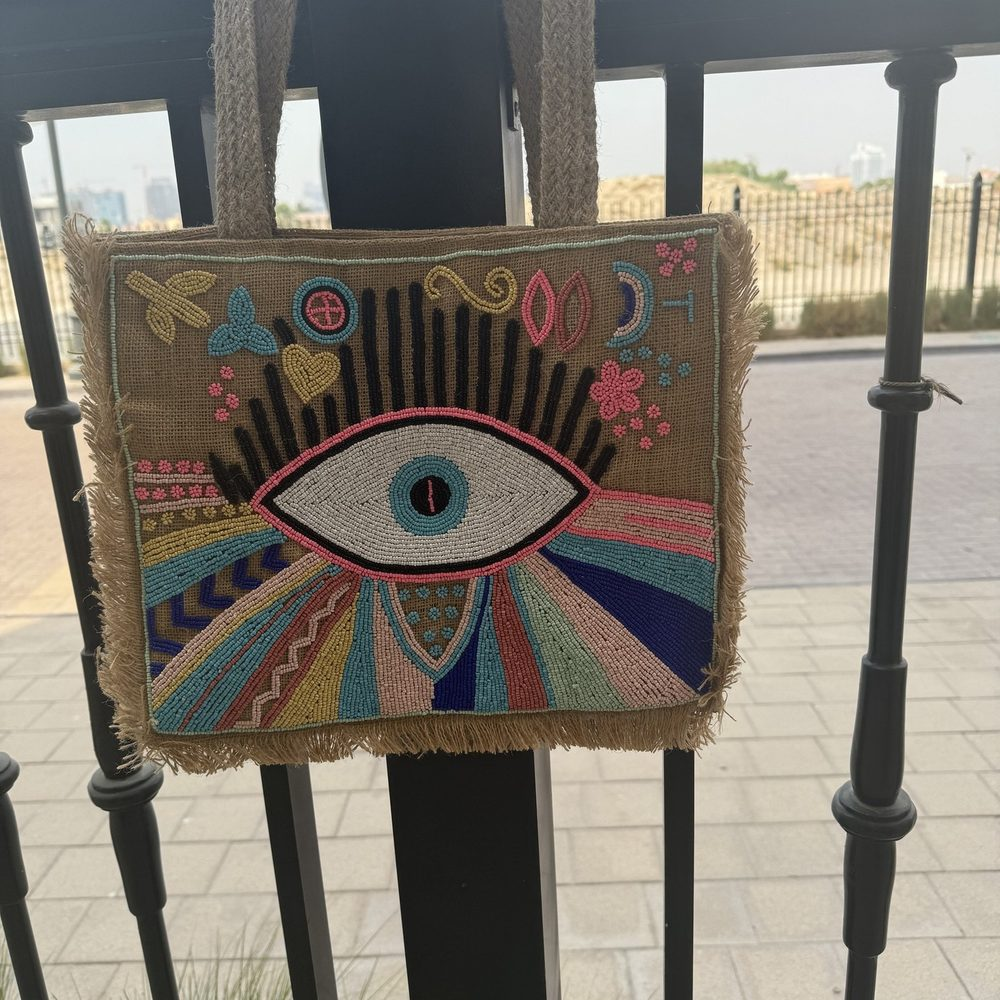
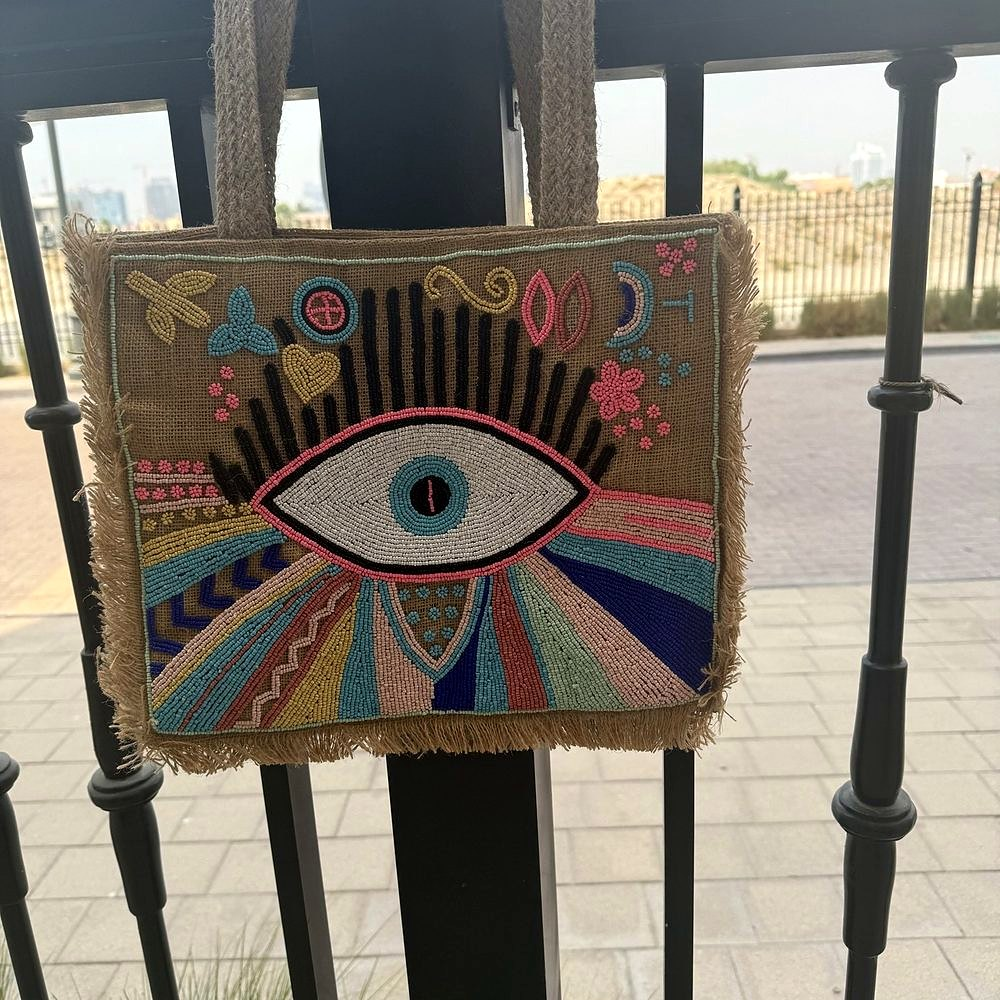
Cleaner product photos (studio cutouts, pro Santorini shots), enhance phone photos, add Desert Gold Tassel Clutch
Claude-Session: https://claude.ai/code/session_01JomihgrmtkzKSAm7hyXQ3Y

diff --git a/index.html b/index.html
@@ -347,8 +347,8 @@ dialog::backdrop{background:rgba(30,22,16,.6)}
     <div class="wrap">
       <div class="head"><div><p class="eyebrow">Shop by style</p><h2 id="cat-h">Find your kind of boho.</h2></div><p class="lead">From roomy beach totes to evening clutches covered in coins and mirrors.</p></div>
       <div class="cats">
-        <button class="cat" data-cat="tote"><img src="img/evil-eye-tote-main.jpg" alt="" loading="lazy"><span><b>Totes</b><em>Shop →</em></span></button>
-        <button class="cat" data-cat="clutch"><img src="img/black-cream-sequin-clutch-main.jpg" alt="" loading="lazy"><span><b>Clutches</b><em>Shop →</em></span></button>
+        <button class="cat" data-cat="tote"><img src="img/santorini-studio-2.jpg" alt="" loading="lazy"><span><b>Totes</b><em>Shop →</em></span></button>
+        <button class="cat" data-cat="clutch"><img src="img/gold-tassel-clutch-1.jpg" alt="" loading="lazy"><span><b>Clutches</b><em>Shop →</em></span></button>
         <button class="cat" data-cat="sling"><img src="img/cream-fringe-sling-main.jpg" alt="" loading="lazy"><span><b>Shoulder bags</b><em>Shop →</em></span></button>
       </div>
     </div>
@@ -519,22 +519,22 @@ const PRODUCTS=[
   desc:"A big, joyful tote with a hand-beaded evil eye in rainbow colours. Frayed jute edges give it a relaxed beach look.",
   points:["Hand-beaded on natural jute","Roomy open tote with sturdy jute handles","Fits phone, wallet, sunglasses and a towel","Great with kaftans, abayas and summer dresses"]},
  {id:"santorini-tote",type:"tote",typeName:"Beaded Tote",badge:"",name:"Santorini Beaded Tote",price:119,
-  imgs:["santorini-tote-2","santorini-tote-3","santorini-tote-4"],
+  imgs:["santorini-studio-1","santorini-studio-2","santorini-studio-3","santorini-studio-4","santorini-tote-2","santorini-tote-3"],
   blurb:"Blue domes and white houses in fine seed beads.",
   desc:"A Greek-island scene worked in fine seed beads, with woven blue-and-white side panels and striped handles.",
   points:["Seed-bead Santorini scene","Woven blue and white side panels","Striped navy and white handles","Made for the beach, pool and travel"]},
  {id:"cream-fringe-sling",type:"sling",typeName:"Fringe Shoulder Bag",badge:"STATEMENT",name:"Ivory Nomad Fringe Bag",price:99,
-  imgs:["cream-fringe-sling-main","cream-fringe-sling-3","cream-fringe-sling-2","cream-fringe-sling-4"],
+  imgs:["cream-fringe-sling-main","cream-fringe-sling-studio","cream-fringe-sling-3","cream-fringe-sling-2","cream-fringe-sling-4"],
   blurb:"Cotton fringe, metal coins and mirror work.",
   desc:"Dramatic ivory cotton fringe around a beaded centre panel with coins and mirrors. Wear it across the body and keep your hands free.",
   points:["Cotton fringe with metal coins and mirrors","Flap closure","Adjustable crossbody strap","Fits phone, keys, cards and lipstick"]},
  {id:"black-cream-sequin-clutch",type:"clutch",typeName:"Embellished Clutch",badge:"",name:"Mirrorwork Boho Clutch",price:89,
-  imgs:["black-cream-sequin-clutch-main","black-cream-sequin-clutch-3","black-cream-sequin-clutch-2","black-cream-sequin-clutch-4"],
+  imgs:["black-cream-sequin-clutch-studio","black-cream-sequin-clutch-main","black-cream-sequin-clutch-3","black-cream-sequin-clutch-2","black-cream-sequin-clutch-4"],
   blurb:"Copper sequins, mirrors and a turquoise centre stone.",
   desc:"Our most detailed clutch: copper sequins, mirror work and pearls around a turquoise centre stone, on black and cream.",
   points:["Sequins, mirrors, pearls and a turquoise stone","Envelope flap","Sling strap for crossbody wear","For weddings, parties and nights out"]},
  {id:"black-coin-clutch",type:"clutch",typeName:"Hand-Beaded Clutch",badge:"",name:"Midnight Coinwork Clutch",price:89,
-  imgs:["black-coin-clutch-main","black-coin-clutch-2","black-coin-clutch-3"],
+  imgs:["black-coin-clutch-studio","black-coin-clutch-main","black-coin-clutch-2","black-coin-clutch-3"],
   blurb:"Hand-beaded leaves with antique gold coins.",
   desc:"An evening clutch with a hand-beaded leaf pattern, mirror sequins and antique gold coins along the edges.",
   points:["Beaded leaf pattern on black","Antique gold coin trim","Detachable sling strap","Looks great with a black abaya"]},
@@ -542,7 +542,12 @@ const PRODUCTS=[
   imgs:["taupe-fringe-clutch-1","taupe-fringe-clutch-2","taupe-fringe-clutch-3"],
   blurb:"Soft jute fringe around a beaded sunburst.",
   desc:"Soft taupe jute fringe frames a hand-beaded sunburst with sequins and pearls. An earthy neutral that goes with almost anything.",
-  points:["Beaded sunburst with sequins and pearls","Jute fringe trim","Envelope flap with detachable sling strap","Pairs with linen, denim and evening outfits"]}
+  points:["Beaded sunburst with sequins and pearls","Jute fringe trim","Envelope flap with detachable sling strap","Pairs with linen, denim and evening outfits"]},
+ {id:"gold-tassel-clutch",type:"clutch",typeName:"Fringe Clutch",badge:"NEW",name:"Desert Gold Tassel Clutch",price:89,
+  imgs:["gold-tassel-clutch-1","gold-tassel-clutch-2"],
+  blurb:"Gold and ivory beadwork with soft fringe and black tassels.",
+  desc:"A sand-toned clutch layered with gold studs, shell beads and sequins in a bold V pattern, edged with soft cotton fringe and finished with black suede tassels.",
+  points:["Gold studs, shell beads and sequins","Soft cotton fringe border","Black suede tassels on both sides","Envelope flap with magnetic close"]}
 ];
 const src=n=>"img/"+n+".jpg";
 const orderLink=p=>wa(WA_DUBAI,`Hi Aztec Feather! I'd like to order the ${p.name} (AED ${p.price}). Is it available?`);
@@ -584,7 +589,7 @@ document.querySelectorAll("[data-cat],[data-goto]").forEach(el=>el.addEventListe
   document.getElementById("shop").scrollIntoView({behavior:"smooth"});
 }));
 
-const ig=["evil-eye-tote-3","black-cream-sequin-clutch-3","santorini-tote-3","taupe-fringe-clutch-2","cream-fringe-sling-3","black-coin-clutch-3"];
+const ig=["santorini-studio-3","black-cream-sequin-clutch-3","evil-eye-tote-3","gold-tassel-clutch-2","cream-fringe-sling-3","santorini-studio-4"];
 document.getElementById("insta").innerHTML=ig.map(n=>`<a href="https://www.instagram.com/aztecfeather/" target="_blank" rel="noopener" aria-label="Aztec Feather on Instagram"><img src="${src(n)}" alt="" loading="lazy"></a>`).join("");
 
 const menu=document.getElementById("menu"), mnav=document.getElementById("mnav");
@@ -622,11 +627,12 @@ dlg.addEventListener("click",e=>{if(e.target===dlg) dlg.close()});
 <script type="application/ld+json">
 {"@context":"https://schema.org","@type":"ItemList","itemListElement":[
 {"@type":"ListItem","position":1,"item":{"@type":"Product","name":"Beaded Evil-Eye Jute Tote","image":"https://aztecfeather.com/img/evil-eye-tote-main.jpg","brand":{"@type":"Brand","name":"Aztec Feather"},"offers":{"@type":"Offer","price":"119","priceCurrency":"AED","url":"https://aztecfeather.com/#shop"}}},
-{"@type":"ListItem","position":2,"item":{"@type":"Product","name":"Santorini Beaded Tote","image":"https://aztecfeather.com/img/santorini-tote-2.jpg","brand":{"@type":"Brand","name":"Aztec Feather"},"offers":{"@type":"Offer","price":"119","priceCurrency":"AED","url":"https://aztecfeather.com/#shop"}}},
+{"@type":"ListItem","position":2,"item":{"@type":"Product","name":"Santorini Beaded Tote","image":"https://aztecfeather.com/img/santorini-studio-1.jpg","brand":{"@type":"Brand","name":"Aztec Feather"},"offers":{"@type":"Offer","price":"119","priceCurrency":"AED","url":"https://aztecfeather.com/#shop"}}},
 {"@type":"ListItem","position":3,"item":{"@type":"Product","name":"Ivory Nomad Fringe Bag","image":"https://aztecfeather.com/img/cream-fringe-sling-main.jpg","brand":{"@type":"Brand","name":"Aztec Feather"},"offers":{"@type":"Offer","price":"99","priceCurrency":"AED","url":"https://aztecfeather.com/#shop"}}},
-{"@type":"ListItem","position":4,"item":{"@type":"Product","name":"Mirrorwork Boho Clutch","image":"https://aztecfeather.com/img/black-cream-sequin-clutch-main.jpg","brand":{"@type":"Brand","name":"Aztec Feather"},"offers":{"@type":"Offer","price":"89","priceCurrency":"AED","url":"https://aztecfeather.com/#shop"}}},
-{"@type":"ListItem","position":5,"item":{"@type":"Product","name":"Midnight Coinwork Clutch","image":"https://aztecfeather.com/img/black-coin-clutch-main.jpg","brand":{"@type":"Brand","name":"Aztec Feather"},"offers":{"@type":"Offer","price":"89","priceCurrency":"AED","url":"https://aztecfeather.com/#shop"}}},
-{"@type":"ListItem","position":6,"item":{"@type":"Product","name":"Taupe Sunburst Clutch","image":"https://aztecfeather.com/img/taupe-fringe-clutch-1.jpg","brand":{"@type":"Brand","name":"Aztec Feather"},"offers":{"@type":"Offer","price":"89","priceCurrency":"AED","url":"https://aztecfeather.com/#shop"}}}
+{"@type":"ListItem","position":4,"item":{"@type":"Product","name":"Mirrorwork Boho Clutch","image":"https://aztecfeather.com/img/black-cream-sequin-clutch-studio.jpg","brand":{"@type":"Brand","name":"Aztec Feather"},"offers":{"@type":"Offer","price":"89","priceCurrency":"AED","url":"https://aztecfeather.com/#shop"}}},
+{"@type":"ListItem","position":5,"item":{"@type":"Product","name":"Midnight Coinwork Clutch","image":"https://aztecfeather.com/img/black-coin-clutch-studio.jpg","brand":{"@type":"Brand","name":"Aztec Feather"},"offers":{"@type":"Offer","price":"89","priceCurrency":"AED","url":"https://aztecfeather.com/#shop"}}},
+{"@type":"ListItem","position":6,"item":{"@type":"Product","name":"Taupe Sunburst Clutch","image":"https://aztecfeather.com/img/taupe-fringe-clutch-1.jpg","brand":{"@type":"Brand","name":"Aztec Feather"},"offers":{"@type":"Offer","price":"89","priceCurrency":"AED","url":"https://aztecfeather.com/#shop"}}},
+{"@type":"ListItem","position":7,"item":{"@type":"Product","name":"Desert Gold Tassel Clutch","image":"https://aztecfeather.com/img/gold-tassel-clutch-1.jpg","brand":{"@type":"Brand","name":"Aztec Feather"},"offers":{"@type":"Offer","price":"89","priceCurrency":"AED","url":"https://aztecfeather.com/#shop"}}}
 ]}
 </script>
 </body>
